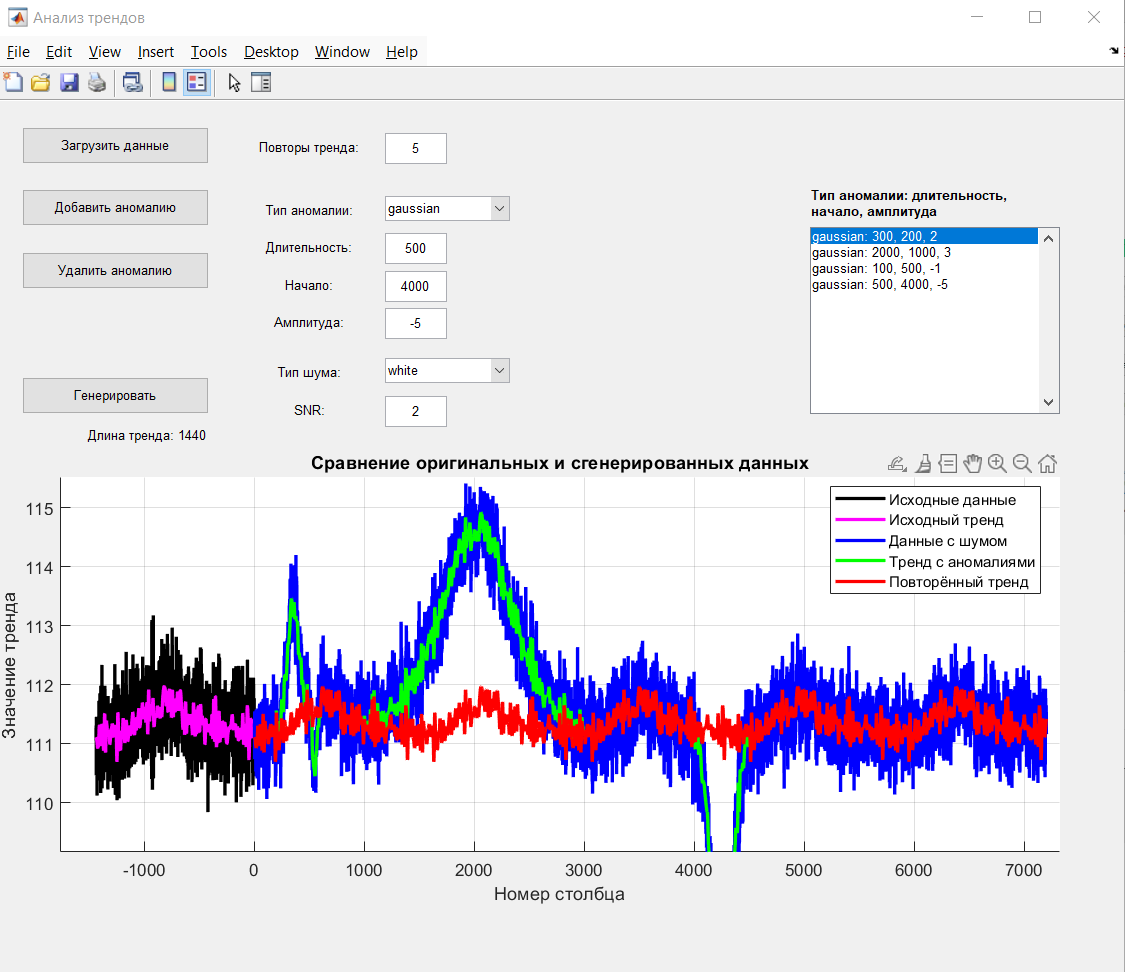
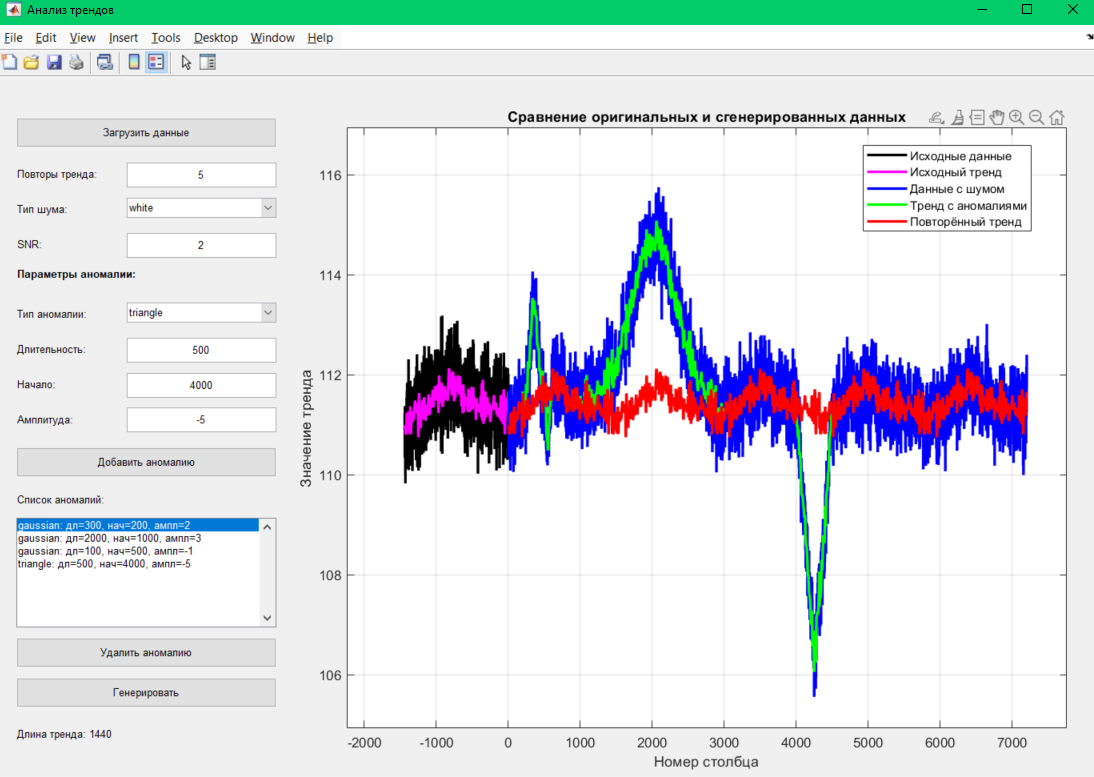
edit readme

diff --git a/code/setup_workspace.m b/code/setup_workspace.m
@@ -133,7 +133,8 @@ function trend_analysis_gui
             plot(median_values, 'k', 'LineWidth', 2);
             xlabel('Номер столбца');
             ylabel('Медианное значение');
-            title('График median_values');
+            title('График медианных значений');
+            legend({'Исходные данные'}, 'Location', 'best');
             grid on;
         end
     end
@@ -145,8 +146,8 @@ function trend_analysis_gui
             [~, ~, ext] = fileparts(file);
             if strcmp(ext, '.mat')
                 anomaly_data = load(fullfile(path, file));
-                if isfield(anomaly_data, 'user_anomaly_data')
-                    user_anomaly_data = anomaly_data.user_anomaly_data;
+                if isfield(anomaly_data, 'anomaly')
+                    user_anomaly_data = anomaly_data.anomaly;
                 else
                     errordlg('Файл MAT не содержит переменной "user_anomaly_data"', 'Ошибка');
                     return;

diff --git a/README.md b/README.md
@@ -41,9 +41,11 @@
 
 <img src="images/Экран%20после%20загрузки.png" alt="image" width="75%" height="auto">
 
-Чтобы загрузить данные нужно нажать кнопку "Загрузка данных". Можно выбрать уже имеющийся набор в data. Можно загрузить csv матрицу, где в первой строке, будет номер измерения, а в остальных строках измерения. Кроме того, можно загрузить .mat файл такого же формата, в котором . После загрузки появится уведомление об успешной загрузке. Кроме того, сразу выведется длина изначальных данных - надпись "Длина тренда".
+Чтобы загрузить данные нужно нажать кнопку "Загрузить данные". Можно выбрать уже имеющийся набор в data. Можно загрузить csv матрицу, где в первой строке, будет номер измерения, а в остальных строках измерения. Кроме того, можно загрузить .mat файл такого же формата, в котором обязательно (!) это должно храниться в переменной Data. После загрузки появится уведомление об успешной загрузке. Кроме того, сразу выведется длина изначальных данных - надпись "Длина тренда" и нарисуется график поданных данных.
 
-Если запустить приложение без дополнительных настроек, нажав коопку "Генерировать", появится график и уведомление о создании файла с новыми данными, они сохранются в папке data в той же папке, где лежит "TimeSeriesGenerator.exe". Файл сохраняется в том же расширении, что и поданный.
+<img src="images/Экран%20после%20загрузки данных.png" alt="image" width="75%" height="auto">
+
+Если запустить приложение без дополнительных настроек, нажав кнопку "Генерировать", появится график и уведомление о создании файла с новыми данными, они сохранются в папке data в той же папке, где лежит "TimeSeriesGenerator.exe". Файл сохраняется в том же расширении, что и поданный.
 
 <img src="images/Запуск приложения без настроек.png" alt="image" width="75%" height="auto">
 
@@ -55,11 +57,15 @@ $$ SNR = \frac{A^2_{данные}}{A^2_{шум}} $$
 
 Рекомендуется ставить этот параметр от 1 до 2. Если в SNR ближе к 1, то данные более хаотичные, если к 2 - данные более приближены к тренду. Если поставить 0 или пустое значение, то будет сгенерирован только тренд.
 
-Есть возможность добавить аномалии. Доступные типы аномалий на данный момент - имитированная Гауссовским распределением и треугольная. В окошке начало задается, где мы добавляем шум, начиная от начала данных, в окошке длительность задаётся размер данной аномалии. Аномалии отображаются в списке и есть возможность добавлять их и удалять соответствующими кнопками. Можно задать амплитуду аномалии в окошке амплитуда. При добавлении аномалии, которая выходит за длину тренда, будет выдана ошибка. 
+Есть возможность добавить аномалии. Доступные типы аномалий на данный момент - имитированная Гауссовским распределением, треугольная и пользовательская. В окошке начало задается, где мы добавляем шум, начиная от начала данных, в окошке длительность задаётся размер данной аномалии. Аномалии отображаются в списке и есть возможность добавлять их и удалять соответствующими кнопками. Можно задать амплитуду аномалии в окошке амплитуда. При добавлении аномалии, которая выходит за длину тренда, будет выдана ошибка. 
 
 <img src="images/Запуск приложения с аномалиями.png" alt="image" width="75%" height="auto">
 
 Кроме того, добавляется зеленый график, показывающий измененный тренд.
+
+Есть также возможность добавить пользовательскую аномалию это должно быть файл .mat или .csv, в котором будет указан сдвиг данных. Пример в data. У пользовательской аномалии нельзя задать длину или амплитуду - только начало.
+
+<img src="images/Пользовательская аномалия.png" alt="image" width="75%" height="auto">
 
 После завершения генерации создается файл, в котором каждая строчка - это один повторенный, а затем измененный тренд. 
 
@@ -87,27 +93,35 @@ trend = wrcoef('a', C, L, waveletName, level);
 Тренд повторяется 5 раз и получаются новые данные. Далее в тренд добавляются аномалии функцией add_impulse(trend, anomaly_type, start_idx, duration, amplitude). Код функции без комментариев:
 
 ```
-function trend_with_anomaly = add_impulse(trend, anomaly_type, start_idx, duration, amplitude)
-    trend_with_anomaly = trend;
-    n = length(trend);
-    
-    if start_idx + duration - 1 > n
-        error('Аномалия выходит за пределы длины тренда');
-    end
-    
-    switch anomaly_type
-        case 'triangle'
-            anomaly = amplitude * triang(duration)';
-        case 'gaussian'
-            x = linspace(-2, 2, duration);
-            anomaly = amplitude * exp(-x.^2);
-        otherwise
-            error('Неизвестный тип аномалии');
-    end
-    
-    trend_with_anomaly(start_idx:start_idx+duration-1) = ...
-        trend_with_anomaly(start_idx:start_idx+duration-1) + anomaly;
+trend_with_anomaly = trend;
+
+if strcmp(anomaly_type, 'user')
+    duration = length(user_anomaly);
 end
+
+n = length(trend);
+if start_idx + duration - 1 > n
+    error('Аномалия выходит за пределы тренда');
+end
+
+switch anomaly_type
+    case 'triangle'
+        anomaly = amplitude * triang(duration)';
+    case 'gaussian'
+        x = linspace(-2, 2, duration);
+        anomaly = amplitude * exp(-x.^2);
+    case 'user'
+        if isempty(user_anomaly)
+            error('Пользовательская аномалия не загружена');
+        end
+        anomaly = user_anomaly;
+        anomaly = reshape(anomaly, 1, []);
+    otherwise
+        error('Неизвестный тип аномалии');
+end
+trend_with_anomaly(start_idx:start_idx+duration-1) = ...
+        trend_with_anomaly(start_idx:start_idx+duration-1) + anomaly;
+
 ```
 
 После идёт добавление шума. Сначала подсчитывается средне-квадратичное отклонение в данных:
